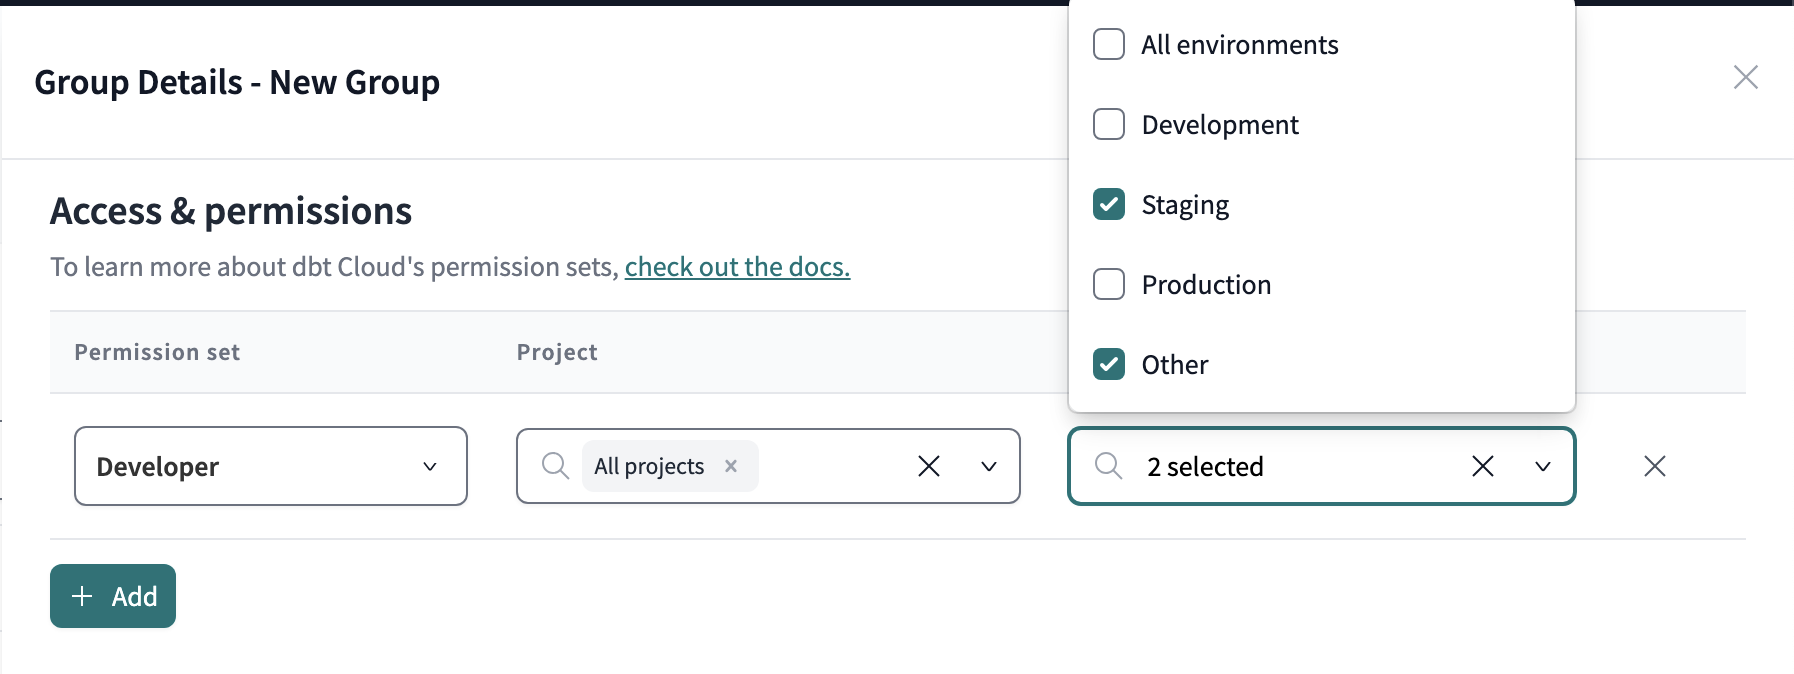
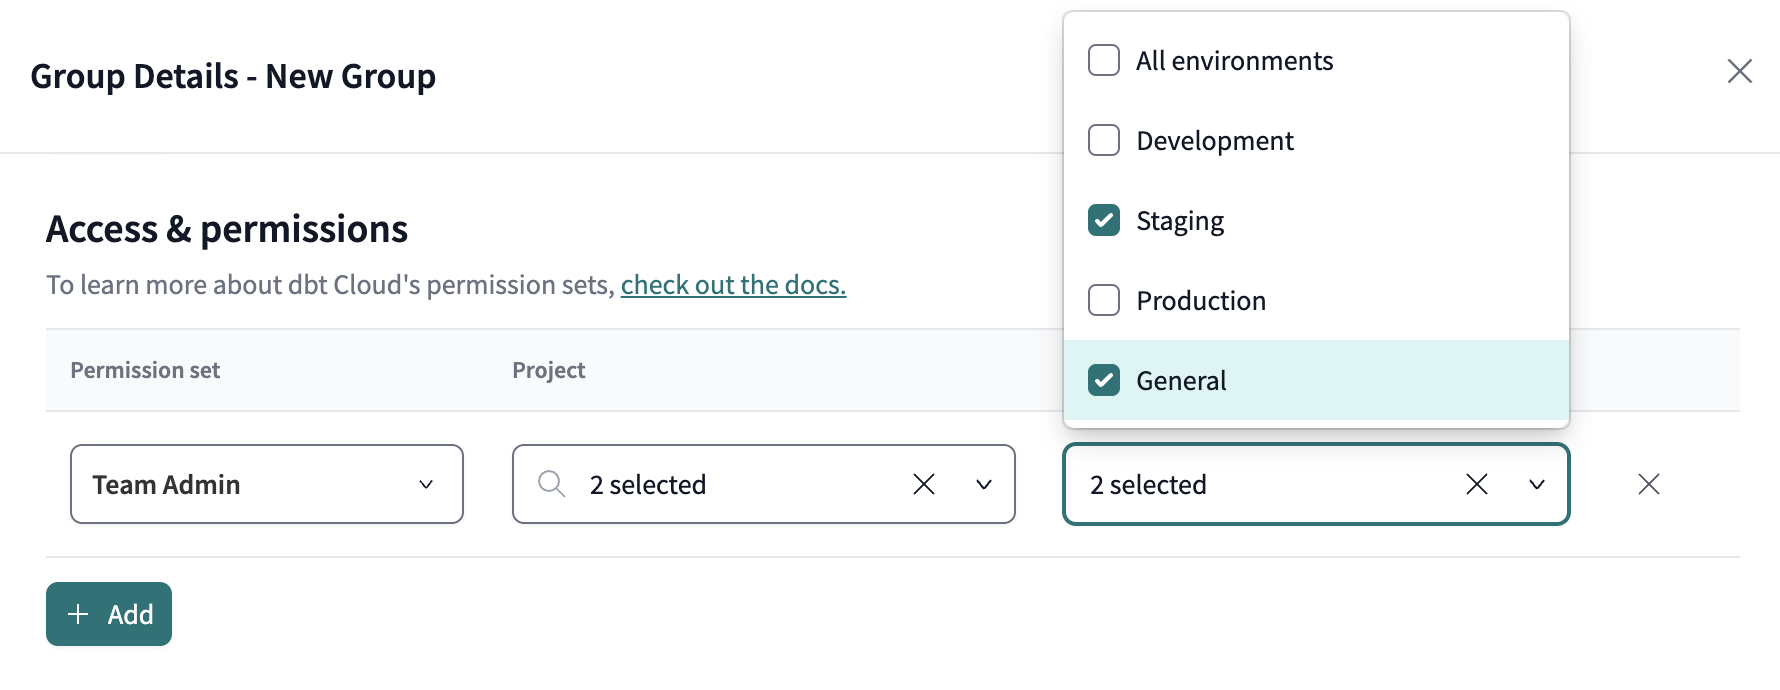
Updating environment permissions

diff --git a/website/docs/docs/cloud/secure/environment-permissions-setup.md b/website/docs/docs/cloud/secure/environment-permissions-setup.md
@@ -45,9 +45,9 @@ If you select a permission set that is not supported, the environment permission
 
 <Lightbox src="/img/docs/dbt-cloud/no-option.png" width="80%" title="The view of the permissions box if there is no option for environment permissions."/>
 
-4. Select the **Environment** for group access. The default is **All environments**, but you can select multiple. If none are selected, the group will have read-only access. Note that `Other` maps to the `General` environment type. 
+4. Select the **Environment** for group access. The default is **All environments**, but you can select multiple. If none are selected, the group will have read-only access.
 
-<Lightbox src="/img/docs/dbt-cloud/environment-options.png" width="80%" title="A list of available environments with the Staging and Other boxes checked."/>
+<Lightbox src="/img/docs/dbt-cloud/environment-options.png" width="80%" title="A list of available environments with the Staging and General boxes checked."/>
 
 5. Save the Group settings. You're now setup and ready to assign users!
 
